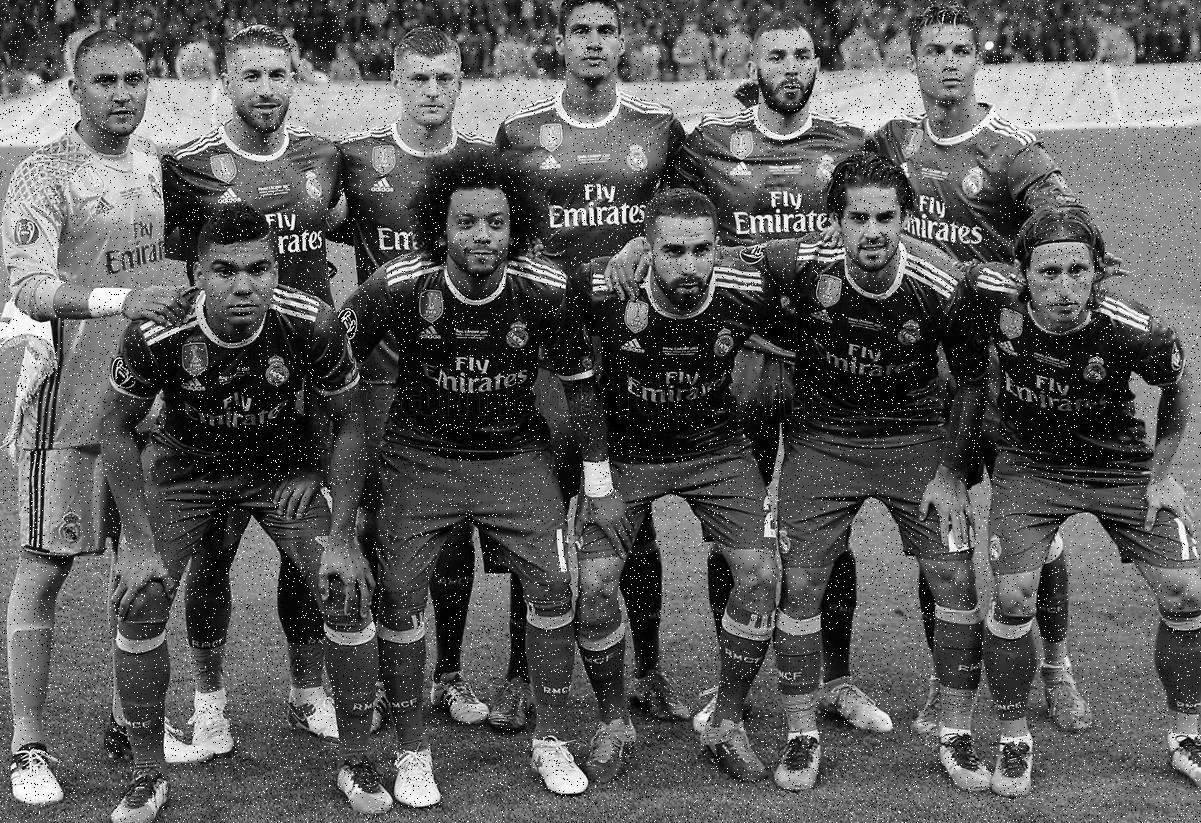
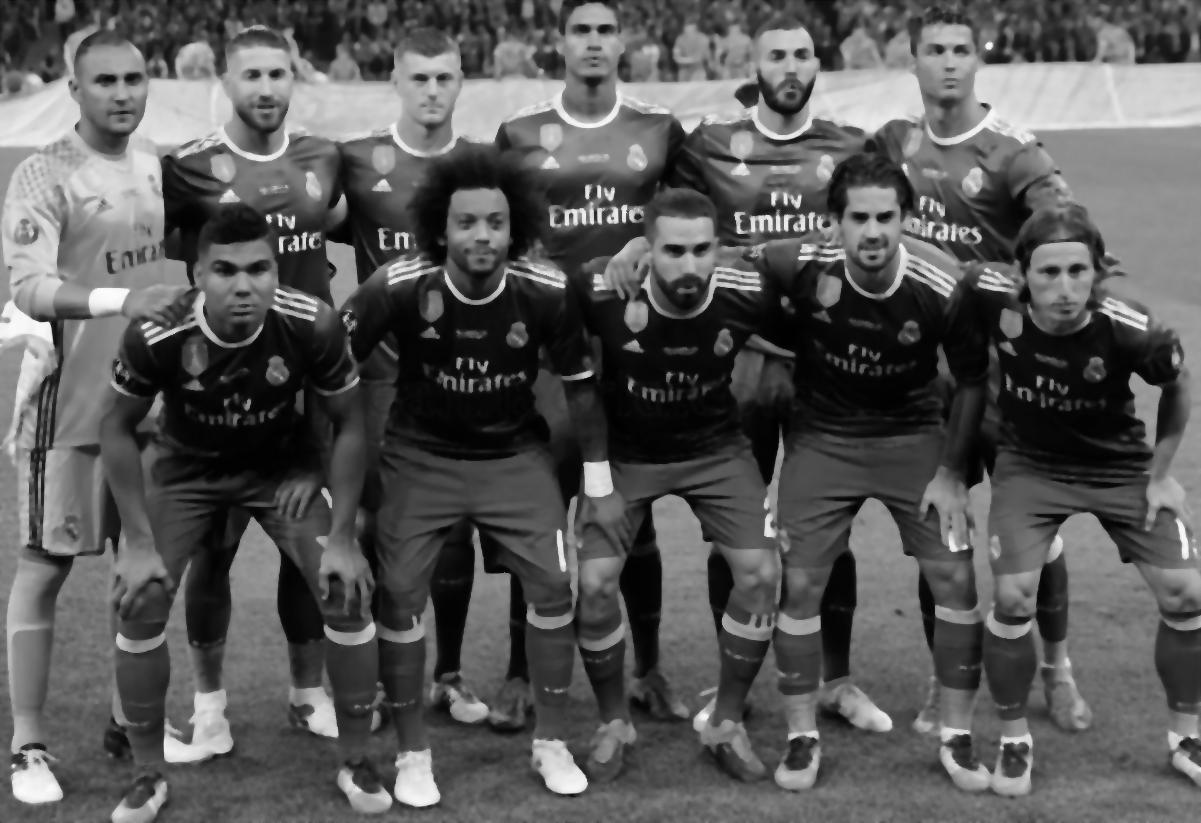
memperbaiki bug:

diff --git a/criteria.py b/criteria.py
@@ -23,13 +23,8 @@ def SSIM(original,predict):
 if __name__ == "__main__":
   from image_proccessing import ImageProcessing
   gray_img  = ImageProcessing("./gray_img.jpg")
-  gauss_img = ImageProcessing("./img/madrid-fullhd.jpg")
-  gauss_img.grayscale()
-  gauss_img.snp_noise()
-  gauss_img.butterworth_filter()
-  gauss_img.img*=255
-  gauss_img.img = np.array(gauss_img.img)
-  gauss_img.img=gauss_img.img.astype(np.uint8)
+  gauss_img = ImageProcessing("./img/mmwf-gauss.jpg")
+  ImageProcessing.shows(gray_img,gauss_img)
   print("MSE : {:.2f}\n".format(MSE(gray_img.img,gauss_img.img)))
   print("PSNR : {:.2f}\n".format(PSNR(gray_img.img,gauss_img.img)))
   print("SNR : {:.2f}\n".format(SNR(gray_img.img,gauss_img.img)))

diff --git a/main.py b/main.py
@@ -1,19 +1,3 @@
 from image_proccessing import ImageProcessing
-img = ImageProcessing("./img/madrid-fullhd.jpg")
-img.grayscale()
-img.gaussian_noise(0,0.05)
-img.wiener_filter()
-img.wiener_filter()
-img.wiener_filter()
-img.wiener_filter()
-  # img.save("./img/mmwf-snp.jpg")
+img = ImageProcessing("./img/mmwf-gauss.jpg")
 img.show()
-exit()
-try :
-  pass
-except RuntimeWarning : 
-  print("Can't divide by zero")
-except : 
-  print("Something went wrong")
-finally : 
-  print("Done  :)")

diff --git a/image_proccessing.py b/image_proccessing.py
@@ -38,8 +38,8 @@ class ImageProcessing :
   def poisson_noise(self) : 
     self.img = random_noise(self.img,mode="speckle",mean=0,var=0.05)
   
-  def snp_noise(self) :
-    self.img = random_noise(self.img,mode="s&p",amount=0.05)
+  def snp_noise(self,amount=0.05) :
+    self.img = random_noise(self.img,mode="s&p",amount=amount)
   def gaussian_noise(self,mean=None,var=None) :
     if mean is None or var is None :
       self.img = random_noise(self.img,mode="gaussian")

diff --git a/detect_face.py b/detect_face.py
@@ -19,7 +19,7 @@ def close_window() :
   exit()
 def main() :
   try : 
-    if os.path.exists(image_location := "./poisson.jpg") : 
+    if os.path.exists(image_location := "./snp_noise_big.jpg") : 
       frame = cv.imread(image_location) 
       # frame = cv.cvtColor(frame,cv.COLOR_RGB2BGR)
       drawer_box(frame)

diff --git a/tes.py b/tes.py
@@ -1,1 +1,5 @@
-from scipy.signal import wiener
+angka =[2,1,3]
+for x in angka : 
+  print("hasilnya adalah",x**2)
+  print("Hasilnya adalah {}".format(x**2))
+  print(f"hasilnya adalah {x**2}")
